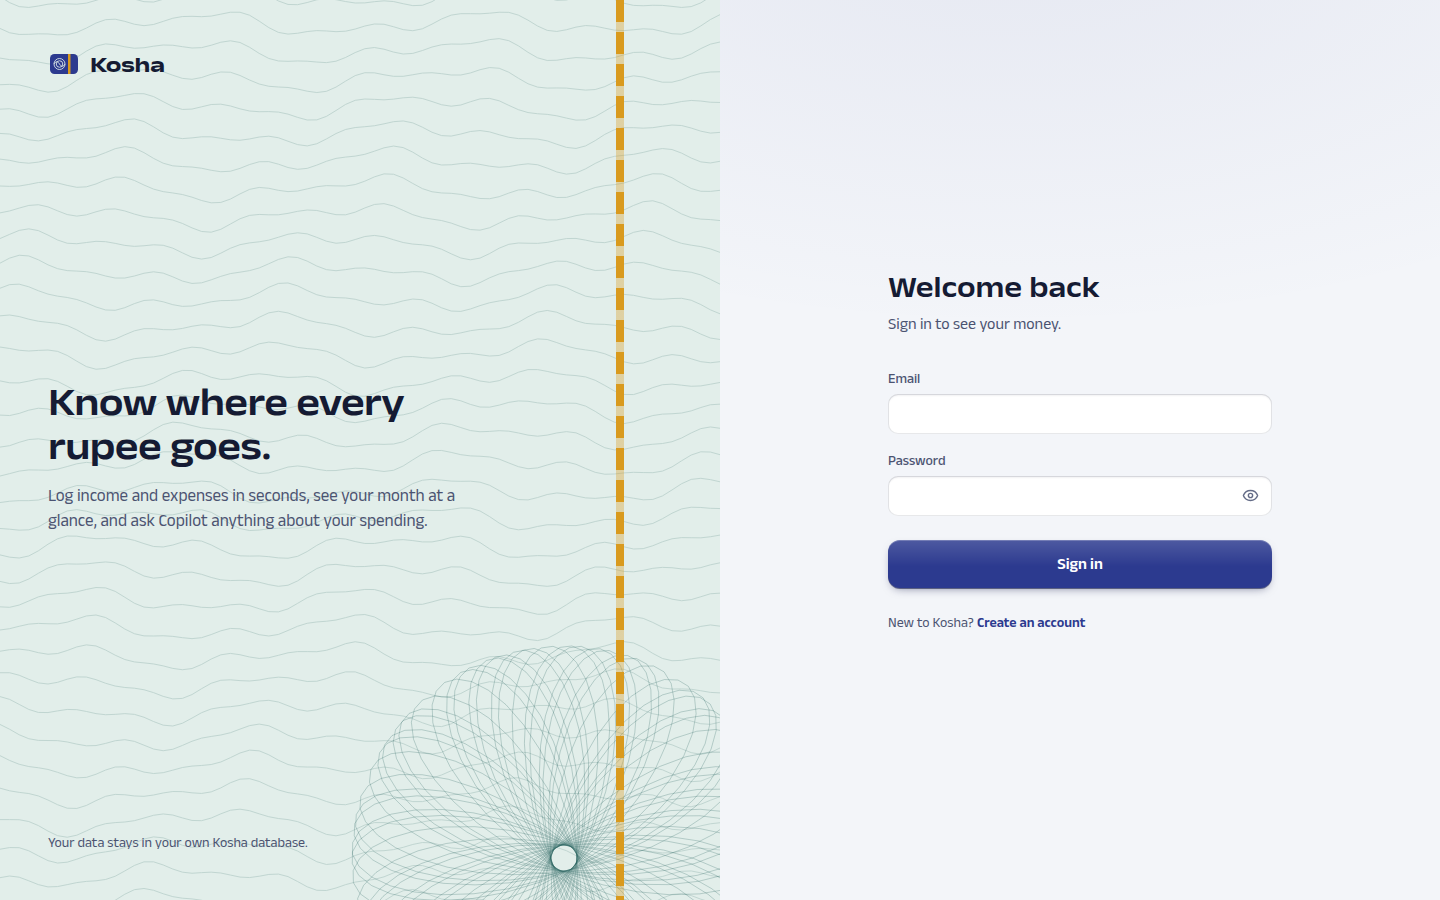
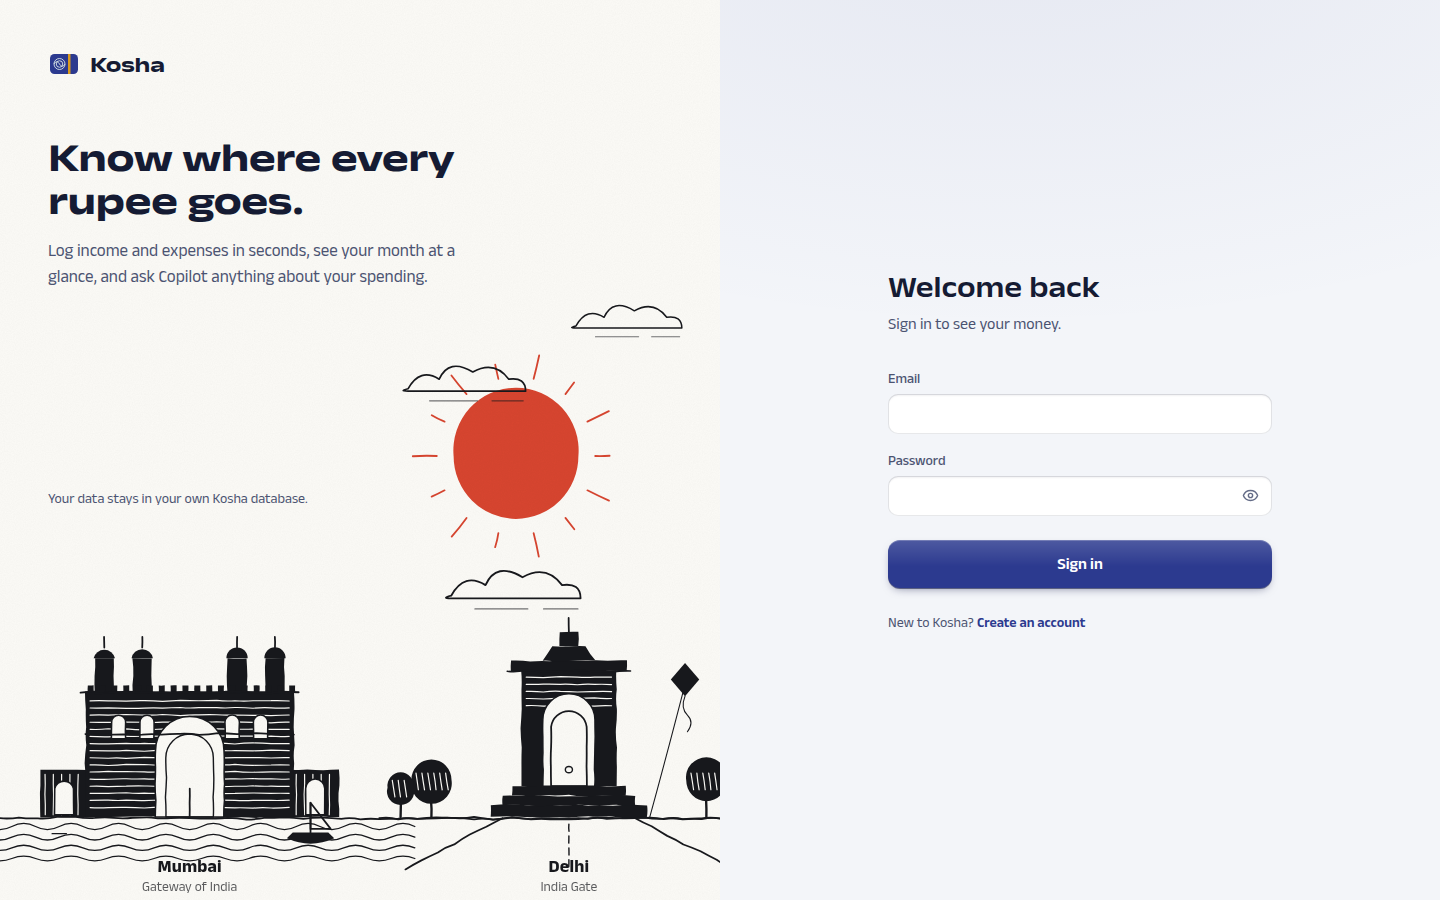
docs: final test counts, independent review summary and screenshots of the new screens

diff --git a/e2e/capture-screenshots.js b/e2e/capture-screenshots.js
@@ -332,10 +332,30 @@ async function main() {
       }
 
       if (want('discussions')) {
-        await a.goto(`${BASE}/discussions`);
-        await settle(a, 1200);
-        await hideLauncher();
-        await shot(a, 'discussions');
+        // A throwaway member writes a few realistic posts, is photographed, then deletes the account (and with it, the posts).
+        const sctx = await browser.newContext({ viewport: { width: 1440, height: 900 }, colorScheme: 'light', locale: 'en-IN', reducedMotion: 'reduce' });
+        const password = 'showcase2026';
+        const email = `showcase-${Date.now()}@kosha.test`;
+        const reg = await sctx.request.post(`${BASE}/api/v1/auth/register`, { data: { name: 'Priya Nair', email, password, acceptedTerms: true } });
+        if (!reg.ok()) throw new Error(`Could not create the showcase member (${reg.status()})`);
+        const make = async (space, title, body) => (await (await sctx.request.post(`${BASE}/api/v1/community/posts`, { data: { space, title, body } })).json()).id;
+        const first = await make('stocks', 'How do I read a P/E ratio?', 'I keep seeing P/E on every stock page. What is a sensible way to read it, and should I compare it with other companies?');
+        await make('funds', 'SIP or lump sum for a ten-year goal?', 'I can save 10,000 a month and I also have a bonus coming. Which approach do people usually prefer, and why?');
+        await make('safety', 'A caller said they sent me money by mistake', 'They asked me to send it back from my UPI app. It felt off, so I did not. Has anyone seen this one?');
+        await make('saving', 'How big an emergency fund with a home-loan EMI?', 'My essentials come to about 45,000 a month including the EMI. Is six months enough, or should I keep more?');
+        await sctx.request.post(`${BASE}/api/v1/community/comments`, { data: { kind: 'post', target: first, body: 'Compare it with companies in the same industry and with its own history, and remember a low P/E is not automatically cheap.' } });
+        await sctx.request.put(`${BASE}/api/v1/community/reactions`, { data: { kind: 'post', target: first, value: 'like' } });
+        const dp = await sctx.newPage();
+        await dp.addInitScript(() => localStorage.setItem('kosha-theme', 'light'));
+        await dp.goto(`${BASE}/discussions`);
+        await settle(dp, 1500);
+        await dp.addStyleTag({ content: '[data-copilot-launcher]{display:none!important}' });
+        await shot(dp, 'discussions');
+        await dp.goto(`${BASE}/discussions/${first}`);
+        await settle(dp, 1500);
+        await shot(dp, 'post');
+        await sctx.request.delete(`${BASE}/api/v1/auth/me`, { data: { password } });
+        await sctx.close();
       }
 
       if (want('markets')) {

diff --git a/README.md b/README.md
@@ -181,10 +181,20 @@ Development followed test-driven development: each feature started with a failin
 
 | Suite | Tests | Notes |
 |---|---|---|
-| shared | 79 | money parsing and formatting, IST dates, validation schemas, phone, date of birth, avatar and balance rules |
-| server | 184 | unit (parser, intents, Gemini loop and sign-in, seed) and API integration against MongoDB: profile, consent, balance, account deletion |
-| client | 171 | API client, filters, forms, dropdown, month picker, calendar, balance dialog, avatar and date-of-birth inputs, policy pages, menus, hotkeys, 3D tilt and count-up, PWA |
-| e2e | 43 | sign-up and consent, CRUD and dashboard totals, filters, undo, Copilot confirm, budgets and custom categories, months and days, balance, profile, phone layout |
+| shared | 109 | money, IST dates, validation schemas, phone, date of birth, avatar, balance, community rules (domains, post and comment limits, ids written one way, invisible characters, `formatCount` that never goes below zero), watchlist |
+| server | 412 | unit (parser, intents, Gemini loop, NSE and AMFI parsing, return maths, the market service with fake files, caching and eviction, article content, Copilot tools) and API integration against MongoDB: auth, profile, balance, transactions, budgets, community (reactions under concurrency, cascade deletes), learn, markets, watchlist, Copilot |
+| client | 405 | forms, dropdown, month picker, calendar, reactions, Reader, article reader, comments, discussions, every Markets screen, sidebar and More sheet, Copilot drawer and cards, the landing page and sketch generators, auth gate and offline screen, route errors, service worker, manifest |
+| e2e | 102 | real browser against the real server: sign-up and consent, CRUD, budgets, Copilot, months and days, balance, profile, settings pages, landing and the live sketch, Learn (shared like/dislike counts, comments), Discussions, Markets with live NSE and AMFI data and honest failures, watchlist, Copilot with guides and no advice, sidebar at laptop heights, phone More sheet, no sideways scroll on any page, installed app (offline, caches) |
+
+The market and community suites never touch the network: the market service is given fake NSE and AMFI files. The browser
+suite does use the real sources, and skips the tests that need numbers if they cannot be reached.
+
+**Independent review.** Once the features were done, a separate reviewer agent audited everything since the previous release
+for security, correctness, accessibility, the installed app, animation cost and a fresh-account walkthrough, and
+re-ran every suite. It found no security hole or data leak, but it did find real defects (a reaction rule that an
+upper-case id could bypass, search that returned the wrong company, links hidden by the sidebar on laptop heights,
+a crash after an update, market data that did not reach an offline user, shortcuts firing inside modals, Copilot
+routing mistakes, unbounded caches). Each became a failing test first and was then fixed.
 
 ## Project structure
 
@@ -234,6 +244,13 @@ All routes are under `/api/v1` and return JSON; everything except `/auth` needs 
 | ![Month picker](docs/report/screenshots/month-picker.png) | ![A month before sign-up](docs/report/screenshots/before-account.png) |
 | ![A day's spending](docs/report/screenshots/day-detail.png) | ![Settings](docs/report/screenshots/settings.png) |
 | ![Sign up with consent](docs/report/screenshots/register.png) | ![Privacy Policy](docs/report/screenshots/privacy.png) |
+| ![Landing page](docs/report/screenshots/landing.png) | ![Landing page, dark](docs/report/screenshots/landing-dark.png) |
+| ![Sign in beside the sketch](docs/report/screenshots/login.png) | ![Markets](docs/report/screenshots/markets.png) |
+| ![A stock](docs/report/screenshots/stock.png) | ![A mutual fund](docs/report/screenshots/fund.png) |
+| ![Mutual funds](docs/report/screenshots/funds.png) | ![Learn](docs/report/screenshots/learn.png) |
+| ![An article](docs/report/screenshots/article.png) | ![Discussions](docs/report/screenshots/discussions.png) |
+| ![A post with comments](docs/report/screenshots/post.png) | ![Categories settings](docs/report/screenshots/settings-categories.png) |
+| ![Phone: markets](docs/report/screenshots/mobile-markets.png) | ![Phone: More sheet](docs/report/screenshots/mobile-more.png) |
 
 ## Troubleshooting
 
